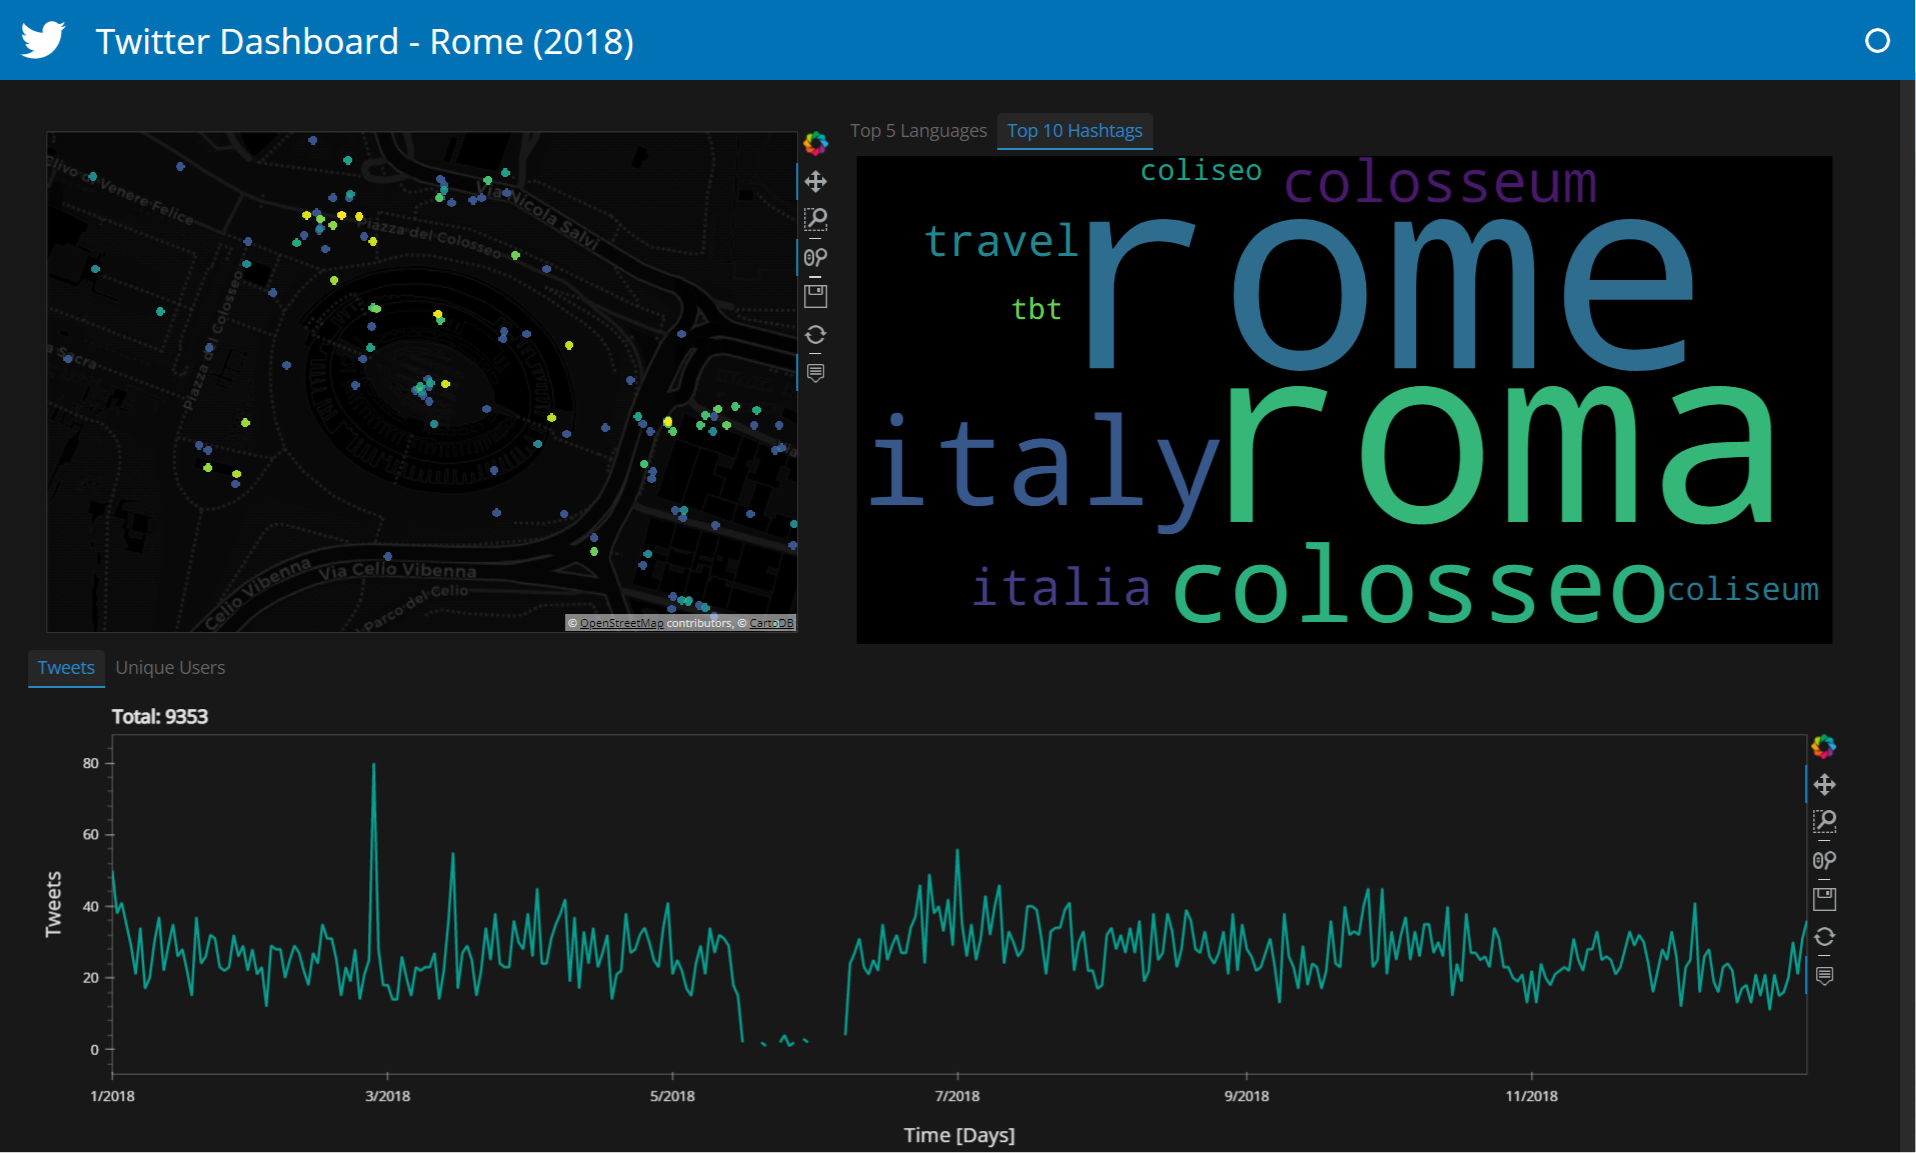
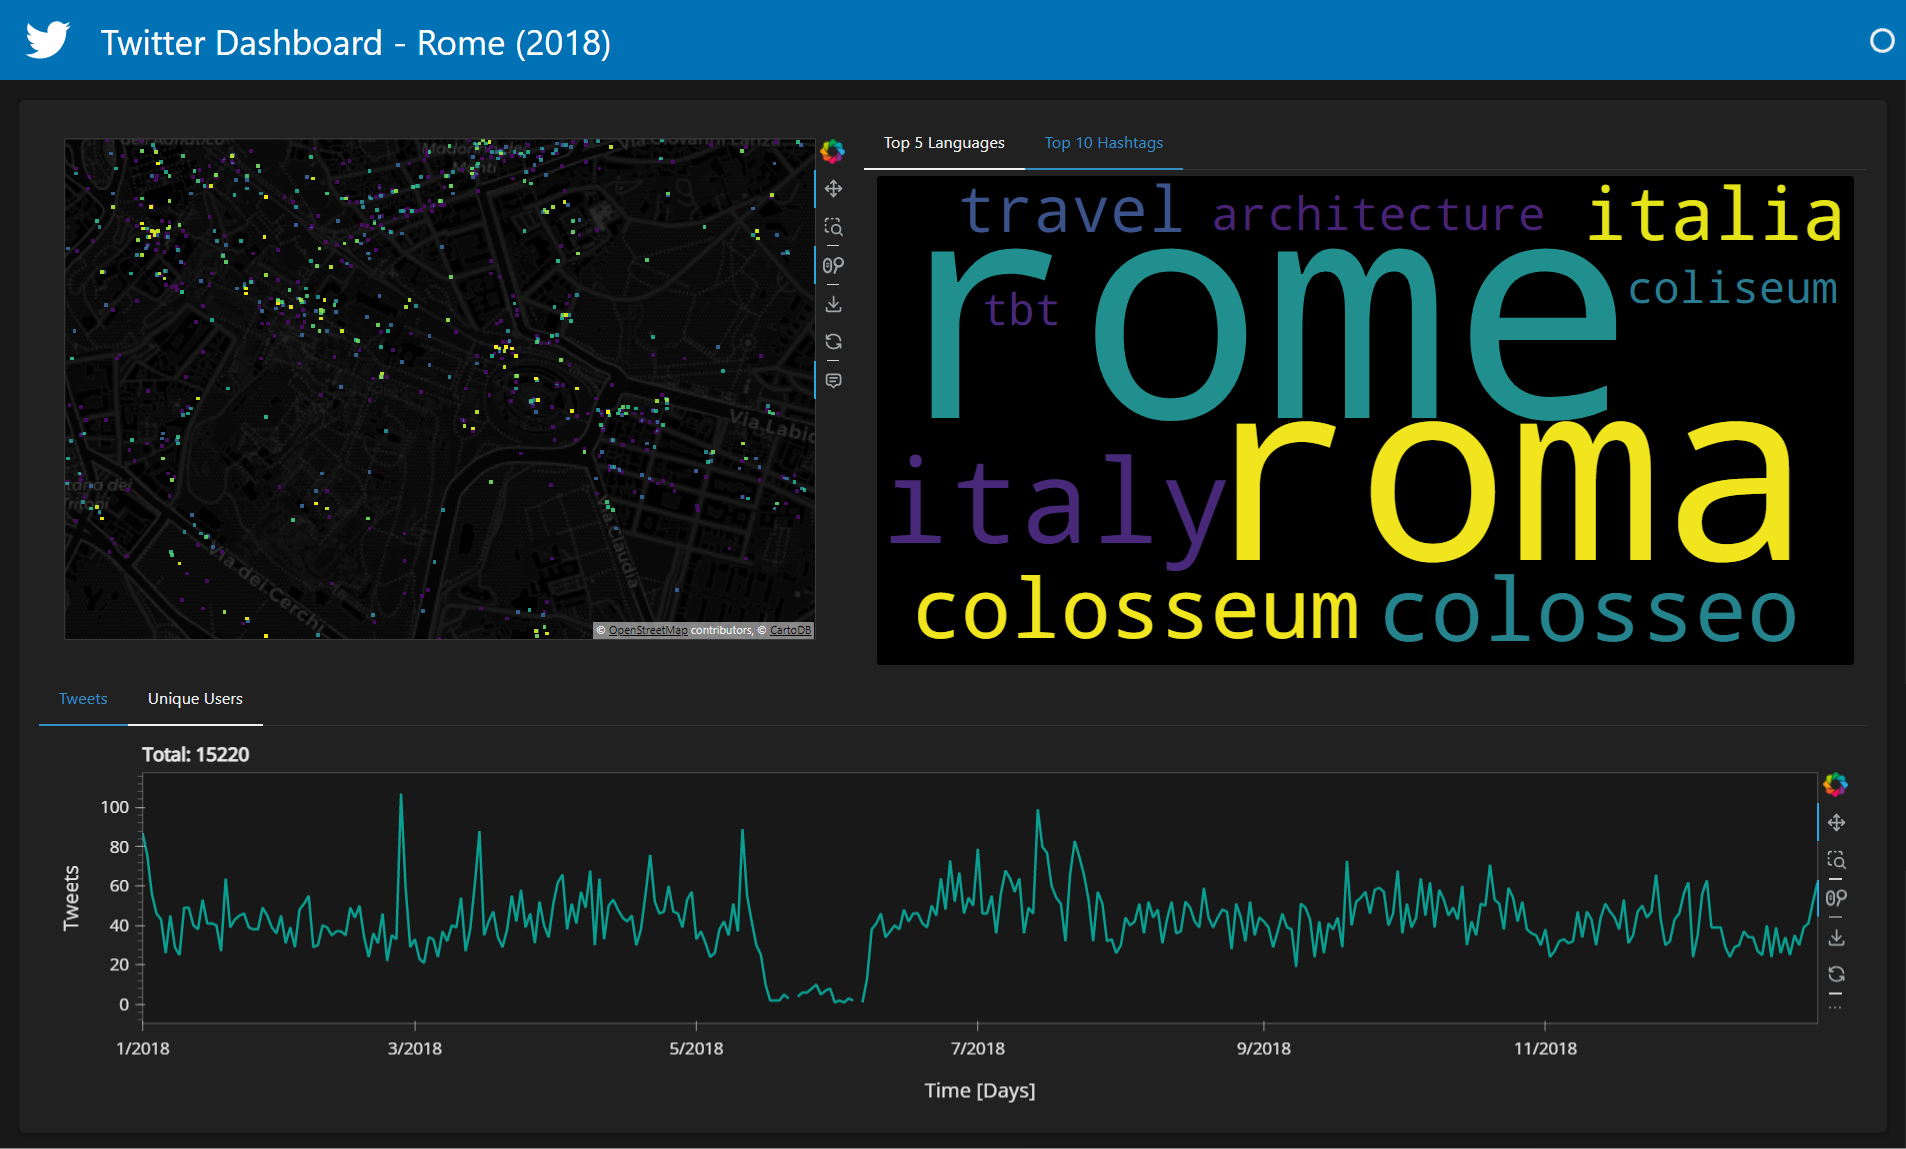
Misc improvements - Webgl temporarly disabled for holoviews; - Disabled zoom on axis for bar/line plots; - Removed hide_nan javascript function for tweetmap; - Corrections to the dashboard layout; - Updated README.md;

diff --git a/pd_utils/utils.py b/pd_utils/utils.py
@@ -2,62 +2,61 @@ import pandas as pd
 
 
 def load_data(data_path):
-    '''
+    """
     This function read the Twitter data (parquet file format)
     from the file path and returns a DataFrame.
-    '''
+    """
 
     # Required columns
-    columns = ['user_id',
-               'tweet_id',
-               'tweet_hashtags',
-               'tweet_lang',
-               'tweet_date',
-               'x',
-               'y']
+    columns = [
+        "user_id",
+        "tweet_id",
+        "tweet_hashtags",
+        "tweet_lang",
+        "tweet_date",
+        "x",
+        "y",
+    ]
 
     # Read the parquet dataset
-    out_data = pd.read_parquet(data_path,
-                               columns=columns)
+    out_data = pd.read_parquet(data_path, columns=columns)
     return out_data
 
 
 def get_hashtags_df(in_data):
-    '''
+    """
     This function returns an exploded DataFrame
     containing the hashtags with their x/y coordinates.
-    '''
+    """
 
     # Select the required columns
-    columns = ['x', 'y', 'tweet_hashtags']
+    columns = ["x", "y", "tweet_hashtags"]
     out_data = in_data[columns]
 
     # Remove rows with empty strings
-    out_data = out_data[out_data['tweet_hashtags'].astype(bool)]
+    out_data = out_data[out_data["tweet_hashtags"].astype(bool)]
 
     # Convert the hashtag strings to lower
-    out_data.loc[:, 'tweet_hashtags'] =\
-        out_data['tweet_hashtags'].str.lower()
+    out_data.loc[:, "tweet_hashtags"] = out_data["tweet_hashtags"].str.lower()
 
     # Split the hashtag strings by comma
-    out_data.loc[:, 'tweet_hashtags'] =\
-        out_data['tweet_hashtags'].str.split(',')
+    out_data.loc[:, "tweet_hashtags"] = out_data["tweet_hashtags"].str.split(",")
 
     # Explode list-like elements into rows
-    out_data = out_data.explode('tweet_hashtags')
+    out_data = out_data.explode("tweet_hashtags")
     return out_data
 
 
 def filter_df_by_bbox(in_data, x_range, y_range):
-    '''
+    """
     This function filters the rows of the DataFrame
     within a bounding box.
-    '''
+    """
 
     out_data = in_data[
-        (in_data['x'] > x_range[0]) &
-        (in_data['x'] < x_range[1]) &
-        (in_data['y'] > y_range[0]) &
-        (in_data['y'] < y_range[1])
-        ]
+        (in_data["x"] > x_range[0])
+        & (in_data["x"] < x_range[1])
+        & (in_data["y"] > y_range[0])
+        & (in_data["y"] < y_range[1])
+    ]
     return out_data

diff --git a/graphs/line_plots.py b/graphs/line_plots.py
@@ -1,6 +1,7 @@
 import holoviews as hv
 import numpy as np
-from bokeh.models import HoverTool
+import panel as pn
+from bokeh.models import HoverTool, WheelZoomTool
 from pd_utils.utils import filter_df_by_bbox
 
 LINE_COLOR = "#03DAC6"
@@ -11,6 +12,17 @@ def get_daily_tweets(in_data, x_range, y_range):
     Returns a line plot showing the number of tweets
     per day within the current map extent.
     """
+
+    def hook(plot, element):
+        """
+        Custom hook for disabling zoom on axis
+        """
+
+        # Disable zoom on axis
+        for tool in plot.state.toolbar.tools:
+            if isinstance(tool, WheelZoomTool):
+                tool.zoom_on_axis = False
+                break
 
     # Verify whether x_range or y_range are None
     if (x_range, y_range) == (None, None):
@@ -45,13 +57,14 @@ def get_daily_tweets(in_data, x_range, y_range):
     tweets_plt.opts(
         title=f"Total: {int(total_tweets)}",
         color=LINE_COLOR,
+        hooks=[hook],
         tools=[tweets_hover],
         alpha=0.7,
         xlabel="Time [Days]",
         ylabel="Tweets",
         yformatter="%.0f",
     )
-    return tweets_plt
+    return pn.panel(tweets_plt, sizing_mode="stretch_width")
 
 
 def get_daily_unique_users(in_data, x_range, y_range):
@@ -60,6 +73,17 @@ def get_daily_unique_users(in_data, x_range, y_range):
     Unique users per day within the current
     map extent.
     """
+
+    def hook(plot, element):
+        """
+        Custom hook for disabling zoom on axis
+        """
+
+        # Disable zoom on axis
+        for tool in plot.state.toolbar.tools:
+            if isinstance(tool, WheelZoomTool):
+                tool.zoom_on_axis = False
+                break
 
     # Verify whether x_range or y_range are None
     if (x_range, y_range) == (None, None):
@@ -95,10 +119,11 @@ def get_daily_unique_users(in_data, x_range, y_range):
     uu_plt.opts(
         title=f"Total: {int(unique_users)}",
         color=LINE_COLOR,
+        hooks=[hook],
         tools=[uu_hover],
         alpha=0.7,
         xlabel="Time [Days]",
         ylabel="Unique Users",
         yformatter="%.0f",
     )
-    return uu_plt
+    return pn.panel(uu_plt, sizing_mode="stretch_width")

diff --git a/graphs/tweet_map.py b/graphs/tweet_map.py
@@ -1,6 +1,6 @@
 import holoviews as hv
-import hvplot.pandas
-from bokeh.models import CustomJSHover, HoverTool
+from bokeh.models import HoverTool
+from holoviews.operation.datashader import dynspread, rasterize
 from scipy import spatial
 
 
@@ -9,42 +9,21 @@ def get_tweet_points(in_data):
     Returns a rasterized graph of tweet locations.
     """
 
-    # This function hide the tooltip when the bin value is NaN
-    hide_nan = CustomJSHover(
-        code="""
-        var value;
-        var tooltips = document.getElementsByClassName("bk-tooltip");
-        if (isNaN(value)) {
-            tooltips[0].hidden=true;
-        } else {
-            tooltips[0].hidden=false;
-        }
-            return value;
-        """
-    )
-
     # Define a custom Hover tool for the points
     points_hover = HoverTool(
-        tooltips=[("tweets", "@image{custom}")],
-        formatters={"@image": hide_nan},
+        tooltips=[("tweets", "@image")],
     )
 
     # Plot the tweet locations, apply rasterization and dynspread
-    out_points = in_data.hvplot.points(
-        x="x",
-        y="y",
-        rasterize=True,
-        dynspread=True,
-        cmap="viridis",
-        cnorm="eq_hist",
-        colorbar=False,
-        tools=[points_hover],
+    out_points = dynspread(rasterize(hv.Points(in_data, ["x", "y"]))).opts(
         frame_width=600,
         frame_height=400,
+        cmap="viridis",
+        cnorm="eq_hist",
+        xaxis=None,
+        yaxis=None,
+        tools=[points_hover],
     )
-
-    # Additional plot options
-    out_points.opts(xaxis=None, yaxis=None, active_tools=["wheel_zoom"])
     return out_points
 
 

diff --git a/graphs/bar_plots.py b/graphs/bar_plots.py
@@ -1,5 +1,6 @@
 import holoviews as hv
-from bokeh.models import HoverTool
+import panel as pn
+from bokeh.models import HoverTool, WheelZoomTool
 from pd_utils.utils import filter_df_by_bbox
 
 BAR_COLOR = "#03DAC6"
@@ -10,6 +11,17 @@ def get_top5_langs(in_data, x_range, y_range):
     Returns a bar plot showing the top 5
     languages within the current map extent.
     """
+
+    def hook(plot, element):
+        """
+        Custom hook for disabling zoom on axis
+        """
+
+        # Disable zoom on axis
+        for tool in plot.state.toolbar.tools:
+            if isinstance(tool, WheelZoomTool):
+                tool.zoom_on_axis = False
+                break
 
     # Verify whether x_range or y_range are None
     if (x_range, y_range) == (None, None):
@@ -41,8 +53,9 @@ def get_top5_langs(in_data, x_range, y_range):
         ylabel="Tweets",
         line_width=0,
         color=BAR_COLOR,
+        hooks=[hook],
         tools=[lang_hover],
         alpha=0.7,
         yformatter="%.0f",
     )
-    return lang_plt
+    return pn.panel(lang_plt, sizing_mode="stretch_both")

diff --git a/app.py b/app.py
@@ -1,5 +1,4 @@
 import os
-import pathlib
 
 import holoviews as hv
 import panel as pn
@@ -13,17 +12,15 @@ from pd_utils.utils import get_hashtags_df, load_data
 # Load the bokeh extension
 hv.extension("bokeh")
 
-# Set the sizing mode
-pn.extension(sizing_mode="stretch_both")
-
-ROOT = pathlib.Path(__file__).parent
+# Disable webgl: https://github.com/holoviz/panel/issues/4855
+hv.renderer("bokeh").webgl = False  # Disable Webgl
 
 # Twitter logo
-TWITTER_LOGO = os.path.join(ROOT, "assets", "images", "Twitter-logo.svg")
+TWITTER_LOGO = os.path.join("assets", "images", "Twitter-logo.svg")
 
 
 # Input Twitter data
-IN_TWITTER_DATA = os.path.join(ROOT, "data", "rome_tweets.parquet")
+IN_TWITTER_DATA = os.path.join("data", "rome_tweets.parquet")
 
 
 def create_twitter_dashboard():
@@ -116,7 +113,6 @@ def create_twitter_dashboard():
         site="",
         title="Twitter Dashboard - Rome (2018)",
         theme="dark",
-        main_layout="",
         theme_toggle=False,
         logo=TWITTER_LOGO,
         main=[layout],

diff --git a/README.md b/README.md
@@ -2,7 +2,7 @@
 
 [![License: CC BY-SA 4.0](https://img.shields.io/badge/License-CC%20BY--SA%204.0-lightgrey.svg)](https://creativecommons.org/licenses/by/4.0/)
 
-A simple Panel-based dashboard visualizing geotagged tweets with hvplot and Datashader.
+A Panel-based dashboard visualizing geotagged tweets with hvplot and Datashader.
 
 The dashboard includes:
 
@@ -49,7 +49,7 @@ To run this dashboard you will need to do the following steps:
 
 1. Git clone this repository:
 
-`git clone https://github.com/ivandorte/panel-geodashboard-twitter.git`
+`git clone git@github.com:ivandorte/panel-geodashboard-twitter.git`
 
 `cd panel-geodashboard-twitter`
 
@@ -59,13 +59,18 @@ To run this dashboard you will need to do the following steps:
 
 3. Run the app
 
-`python -m panel serve app.py --show`
+`panel serve app.py --show`
 
 The dashboard will be available in your web browser!!!
 
 ### Deployment
 
 This dashboard has not been deployed yet.
+
+### ToDo
+
+- [ ] Deploy the dashboard on Hugging Face;
+- [ ] Sentiment Analysis using Hugging Face Transformers;
 
 ### References
 
